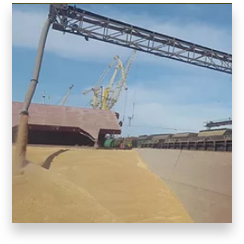
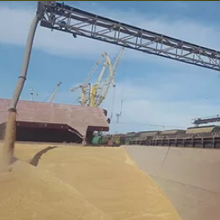
gellery added

diff --git a/app/temp/styles/styles.css b/app/temp/styles/styles.css
@@ -372,6 +372,18 @@ template {
         display: table;
     }
 
+.wrapper__center {
+        display: inline-block;
+        text-align: center;
+        margin: 0 auto;
+    }
+
+.wrapper__center::after {
+        content: "";
+        clear: both;
+        display: table;
+    }
+
 * {
     box-sizing: border-box;
     margin: 0;
@@ -579,7 +591,7 @@ img {
 
 /* @import "components/_general-information.css"; */
 
-.email{
+.email {
     background-color: #EBF6FF;
     padding: 10px 10px 40px; 
 }
@@ -591,8 +603,8 @@ img {
 .email__title {
         text-align: center;
         padding:10px;
-        font-size: 64px;
-        font-weight: bold;
+        font-size: 3.5rem;
+        font-weight: 900;
     }
 
 .email__text {
@@ -612,8 +624,6 @@ img {
         box-shadow: 0 13px 20px 0 rgba(0, 0, 0, 0.25);
         margin: 0px auto;
         padding: 10px 10px 20px;
-        
-        
     }
 
 .email__form textarea {
@@ -686,5 +696,82 @@ img {
                 padding: 12px 20px;
                 border: none;
                 border-radius: 4px;
+                box-shadow: 0 13px 20px 0 rgba(0, 0, 0, 0.25);
                 
             }
+
+.gallery {
+    background-color: #FEED00;
+    padding: 10px 10px 40px;
+
+    
+
+   
+}
+
+.gallery h1 {
+        margin: 0;
+    }
+
+.gallery__title {
+        text-align: center;
+        padding:10px;
+        font-size: 3.5rem;
+        font-weight: 900;
+        color: #0D244B;
+    }
+
+.gallery__images_container {
+        width: 400px;
+        height: 400px;
+        float: left;
+        margin: 0;
+        padding: 0;
+    }
+
+.gallery__images_container__item {
+            width: 100%;
+            height: 100%;
+            display: block;
+            margin: 0;
+            padding: 0;
+        }
+
+.gallery__images_container__item--small{
+                width: 49.5%;
+                height: 49.5%;
+            }
+
+.gallery__images {
+        width: 59%;
+        margin: 20px auto;
+        box-sizing: border-box;
+
+
+    }
+
+.gallery__images__item{
+            width: 22%;
+            margin: 0 8px 30px;
+            box-shadow: 0 13px 20px 0 rgba(0, 0, 0, 0.25);
+        }
+
+.gallery__images__item--big{
+            float: left;
+            width: 48%;
+            margin: 0 10px 0 0;
+            box-shadow: 0 13px 20px 0 rgba(0, 0, 0, 0.25);
+        }
+
+.gallery__button--blue{
+        display: block;
+        width: 200px;
+        padding: 12px 0;
+        font-size: 1.25rem;
+        text-transform: capitalize;
+        cursor: pointer;
+        margin: 0 auto;
+        background: #0D244B;
+        color: white;
+        box-shadow: 0 13px 20px 0 rgba(0, 0, 0, 0.25);
+    }

diff --git a/app/index.html b/app/index.html
@@ -106,12 +106,19 @@
     </section>
     <section class="gallery">
         <h1 class="gallery__title">Gallery</h1>
-        <div class="gallery__images">
-            <img class="gallery__images__item--big" src="../asset/desktop/gal1.jpg" alt="image1">
-            <img class="gallery__images__item" src="../asset/desktop/gal2.jpg" alt="image2">
-            <img class="gallery__images__item" src="../asset/desktop/gal3.png" alt="image3">
-            <img class="gallery__images__item" src="../asset/desktop/gal4.jpg" alt="image4">
-            <img class="gallery__images__item" src="../asset/desktop/gal5.jpg" alt="image5">
+        <div class="wrapper">
+            <div class="wrapper__center">
+                <div class="gallery__images_container">
+                    <img class="gallery__images_container__item" src="./assets/images/desktop/gal1.jpg" alt="image1">
+                </div>     
+                <div class="gallery__images_container">
+                    <img class="gallery__images_container__item--small" src="./assets/images/desktop/gal2.jpg" alt="image2">
+                    <img class="gallery__images_container__item--small" src="./assets/images/desktop/gal3.jpg" alt="image3">
+                    <img class="gallery__images_container__item--small" src="./assets/images/desktop/gal4.jpg" alt="image4">
+                    <img class="gallery__images_container__item--small" src="./assets/images/desktop/gal5.jpg" alt="image5">
+                </div>
+            </div>
+            
         </div>
         <button class="gallery__button--blue">See More</button>
     </section>

diff --git a/app/assets/styles/components/_gallery.css b/app/assets/styles/components/_gallery.css
@@ -1,0 +1,75 @@
+.gallery {
+    background-color: $mainYellow;
+    padding: 10px 10px 40px;
+
+    h1 {
+        margin: 0;
+    }
+
+    &__title {
+        text-align: center;
+        padding:10px;
+        font-size: 3.5rem;
+        font-weight: 900;
+        color: $mainBlue;
+    }
+
+    &__images_container {
+        width: 400px;
+        height: 400px;
+        float: left;
+        margin: 0;
+        padding: 0;
+        
+        &__item {
+            width: 100%;
+            height: 100%;
+            display: block;
+            margin: 0;
+            padding: 0;
+
+            &--small{
+                width: 49.5%;
+                height: 49.5%;
+            }
+        }
+    }
+    
+
+    &__images {
+        width: 59%;
+        margin: 20px auto;
+        box-sizing: border-box;
+
+        &__item{
+            width: 22%;
+            margin: 0 8px 30px;
+            box-shadow: 0 13px 20px 0 rgba(0, 0, 0, 0.25);
+        }
+        &__item--big{
+            float: left;
+            width: 48%;
+            margin: 0 10px 0 0;
+            box-shadow: 0 13px 20px 0 rgba(0, 0, 0, 0.25);
+        }
+
+
+    }
+
+    &__button--blue{
+        display: block;
+        width: 200px;
+        padding: 12px 0;
+        font-size: 1.25rem;
+        text-transform: capitalize;
+        cursor: pointer;
+        margin: 0 auto;
+        background: $mainBlue;
+        color: white;
+        box-shadow: 0 13px 20px 0 rgba(0, 0, 0, 0.25);
+    }
+
+    
+
+   
+}

diff --git a/app/assets/styles/components/_form.css b/app/assets/styles/components/_form.css
@@ -1,4 +1,4 @@
-.email{
+.email {
     background-color: $lightBlue;
     padding: 10px 10px 40px;
 
@@ -9,8 +9,8 @@
     &__title {
         text-align: center;
         padding:10px;
-        font-size: 64px;
-        font-weight: bold;
+        font-size: 3.5rem;
+        font-weight: 900;
     }
 
     &__text {
@@ -74,11 +74,10 @@
                 padding: 12px 20px;
                 border: none;
                 border-radius: 4px;
+                box-shadow: 0 13px 20px 0 rgba(0, 0, 0, 0.25);
                 
             }
         }
-        
-        
     } 
 }
 

diff --git a/app/assets/styles/layout/_wrapper.css b/app/assets/styles/layout/_wrapper.css
@@ -3,4 +3,11 @@
     @mixin clearFix;
 
     padding: 0 100px;
+
+    &__center {
+        @mixin clearFix;
+        display: inline-block;
+        text-align: center;
+        margin: 0 auto;
+    }
 }

diff --git a/app/assets/styles/styles.css b/app/assets/styles/styles.css
@@ -12,3 +12,4 @@
 @import "components/_clients.css";
 /* @import "components/_general-information.css"; */
 @import "components/_form.css";
+@import "components/_gallery.css";
